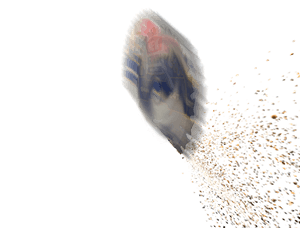
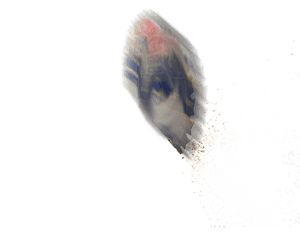
adjusted blade

diff --git a/Irwin CSB/160x600/Animation.js b/Irwin CSB/160x600/Animation.js
@@ -8,7 +8,7 @@ var BanTimeline = {
     // run animation after init is done. 
     TweenLite.to(f1_img1, 0, {left:60, scaleX:1.3, scaleY:1.3});
     // TweenLite.to(f2_img1, 0, {left:-20, top:160, scaleX:1.5, scaleY:1.5});
-    TweenLite.to(blurSaw, 0, {left:10, top:180, scaleX:1.5, scaleY:1.5});
+    TweenLite.to(blurSaw, 0, {left:10, top:190, scaleX:1.5, scaleY:1.5});
 
     BanTimeline.frame1();
   },
